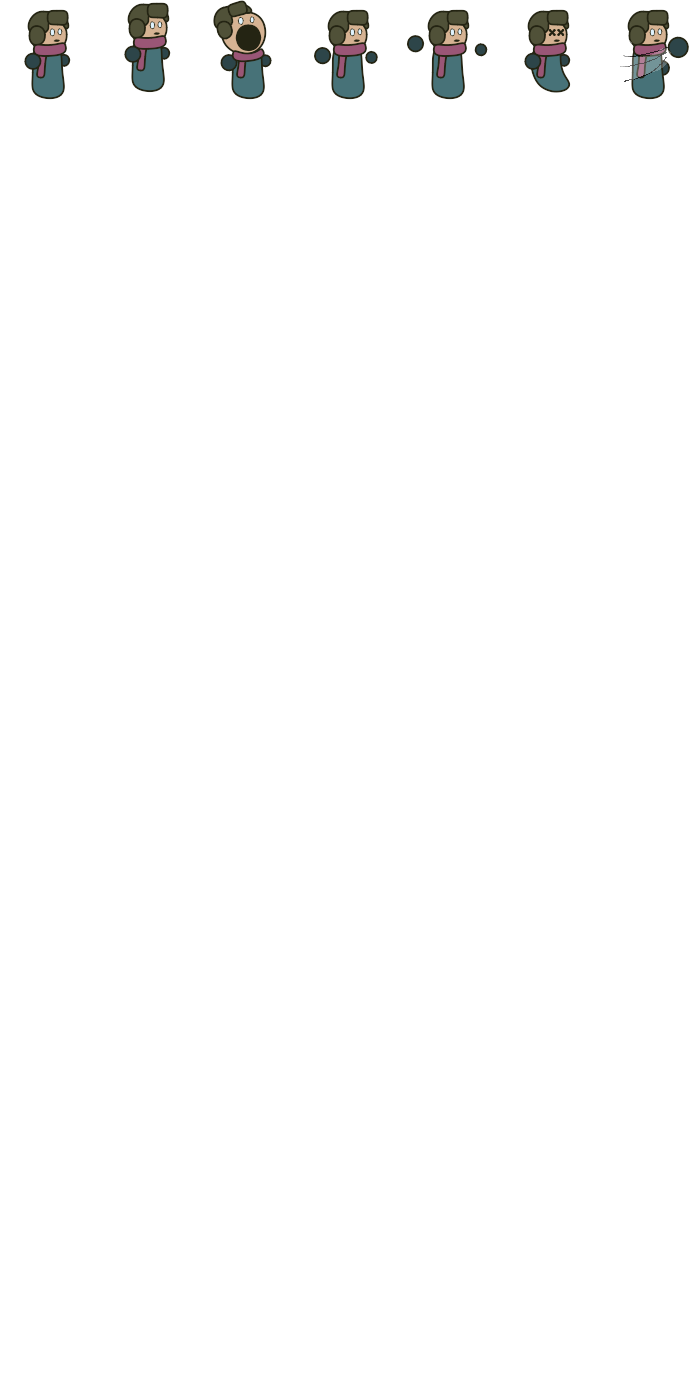
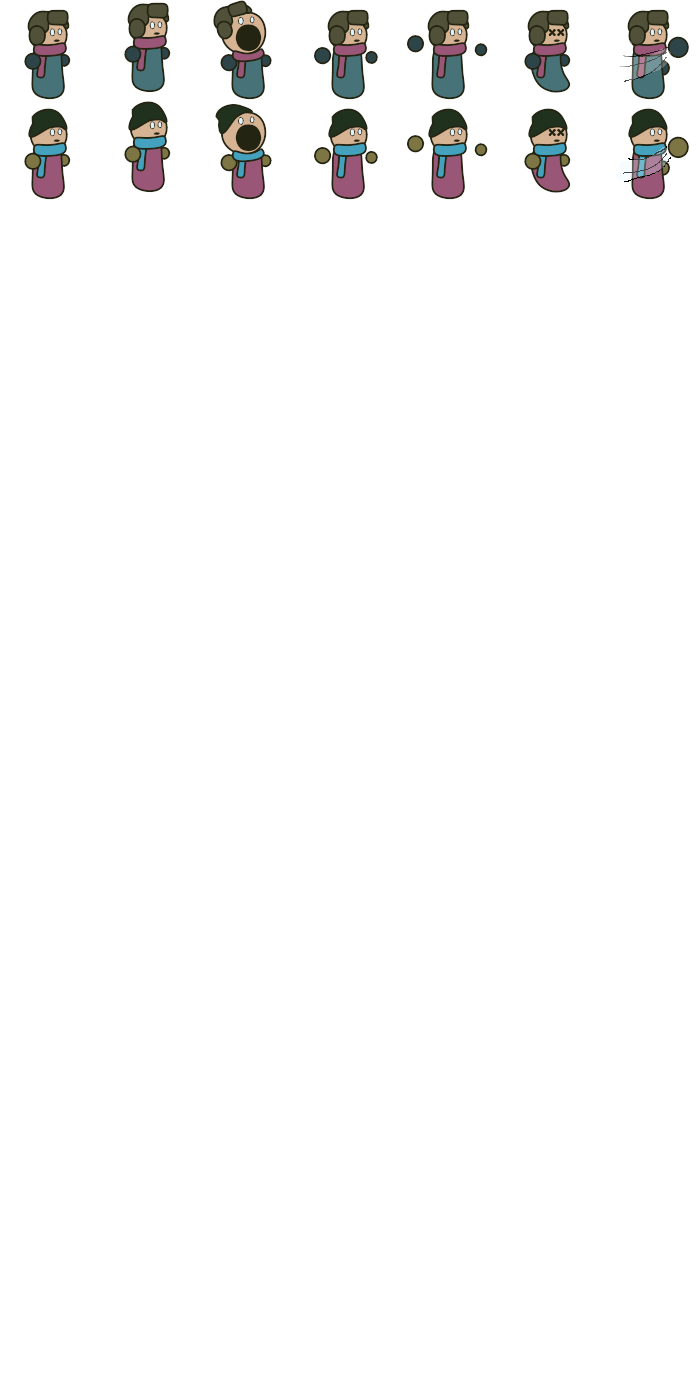
ftr(Bot): add base animation

diff --git a/lastFlake/src/game/Bot.js b/lastFlake/src/game/Bot.js
@@ -17,20 +17,23 @@ export default class Bot {
 
     actualTarget;
 
+    animName;
+
     /**
      * 
      * @param {Phaser.Scene} scene 
      * @param {Number} x 
      * @param {Number} level 
      */
-    constructor(scene, x, level) {
+    constructor(scene, x, level, animName) {
         const me = this;
 
         me.scene = scene;
 
         const y = Utils.getYbyLevel(level);
 
-        me.sprite = scene.physics.add.sprite(x, y, 'square');
+        me.animName = animName;
+        me.sprite = scene.physics.add.sprite(x, y, animName);
 
         me.path = [];
         me.pathIndex = 0;
@@ -59,11 +62,20 @@ export default class Bot {
             ++me.pathIndex;
 
             if (me.pathIndex < me.path.length) {
+                const target = me.path[me.pathIndex];
                 me.scene.physics.moveTo(
                     me.sprite, 
-                    me.path[me.pathIndex].x,
-                    me.path[me.pathIndex].y, 
+                    target.x,
+                    target.y, 
                     Consts.botSpeed);
+                
+                    me.sprite.play(me.animName);
+                    me.sprite.setFlip(target.x < me.sprite.x)
+            }
+            else
+            {
+                me.sprite.stop();
+                me.sprite.setFrame(7 + 2); // TODO
             }
 
             if (!!me.actualTarget) {
@@ -105,7 +117,7 @@ export default class Bot {
             min = 0;
         const INF = 10000;
 
-        let beginIndex = me.findBeginIndex(); // TODO
+        let beginIndex = me.findBeginIndex();
 
         for (let i = 0; i < Consts.graphPoints.length; ++i) {
             d.push(INF);
@@ -217,7 +229,7 @@ export default class Bot {
         for (let i = 0; i < Consts.eatZones.length; ++i) {
             for (let j = 0; j < Consts.eatZones[i].length; ++j) {
                 const zone = Consts.eatZones[i][j];
-                if (pos > zone.from && pos < zone.to) { // && Phaser.Math.Between(0, 1) == 1) {
+                if (pos > zone.from && pos < zone.to && Phaser.Math.Between(0, 1) == 1) {
                     return { zone: zone, level: i};
                 }
             }

diff --git a/lastFlake/src/scenes/Game.js b/lastFlake/src/scenes/Game.js
@@ -93,7 +93,7 @@ export default class Game extends Phaser.Scene {
         me.toUpdate.push(me.snow);
 
         me.bots = [
-            new Bot(me, 400, Consts.levelType.FLOOR)
+            new Bot(me, 400, Consts.levelType.FLOOR, 'kid_1_walk')
         ];
 
         me.bots.forEach((bot) => {
@@ -319,5 +319,12 @@ export default class Game extends Phaser.Scene {
             frameRate: 10,
             repeat: -1
         });
+
+        me.anims.create({
+            key: 'kid_1_walk',
+            frames: me.anims.generateFrameNumbers('kids', { frames: [ 7 + 0, 7 + 1 ]}),
+            frameRate: 10,
+            repeat: -1
+        })
     }
 }

diff --git a/lastFlake/src/game/Snow.js b/lastFlake/src/game/Snow.js
@@ -45,6 +45,9 @@ export default class Snow {
             return;
 
         const pos = Phaser.Math.Between(100, 2900);
+
+        if (Consts.debug)
+            console.log(pos);
         
         /** @type {Phaser.Physics.Arcade.Sprite} */
         const flake = me.flakes.get(pos, 700, 'snowflake');
